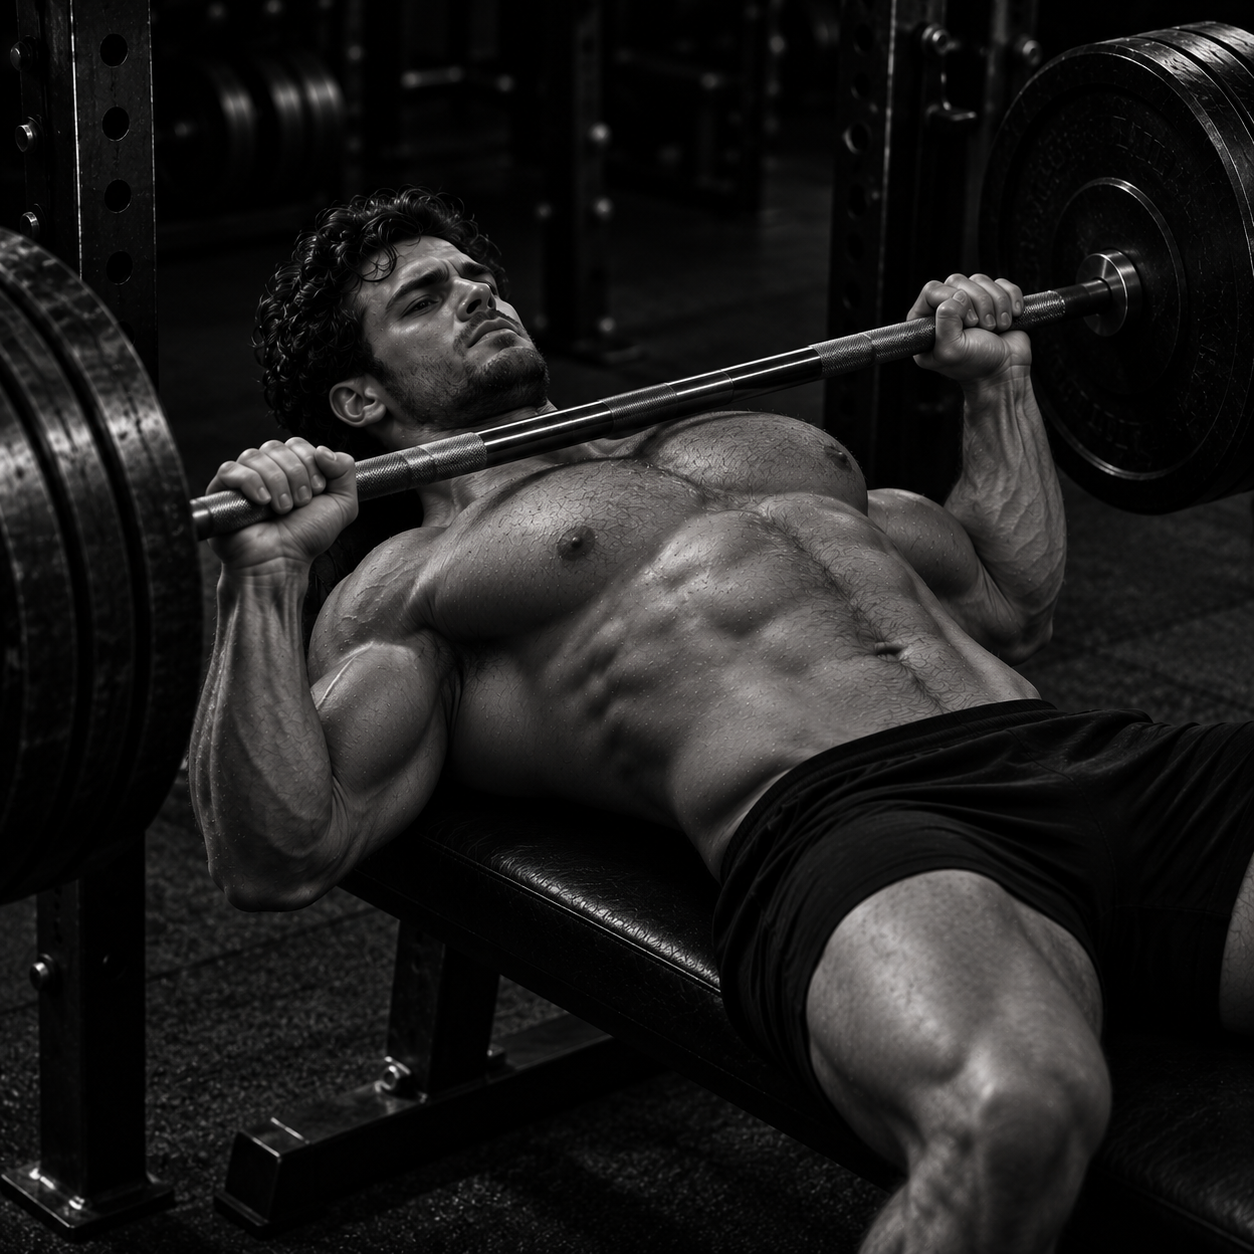
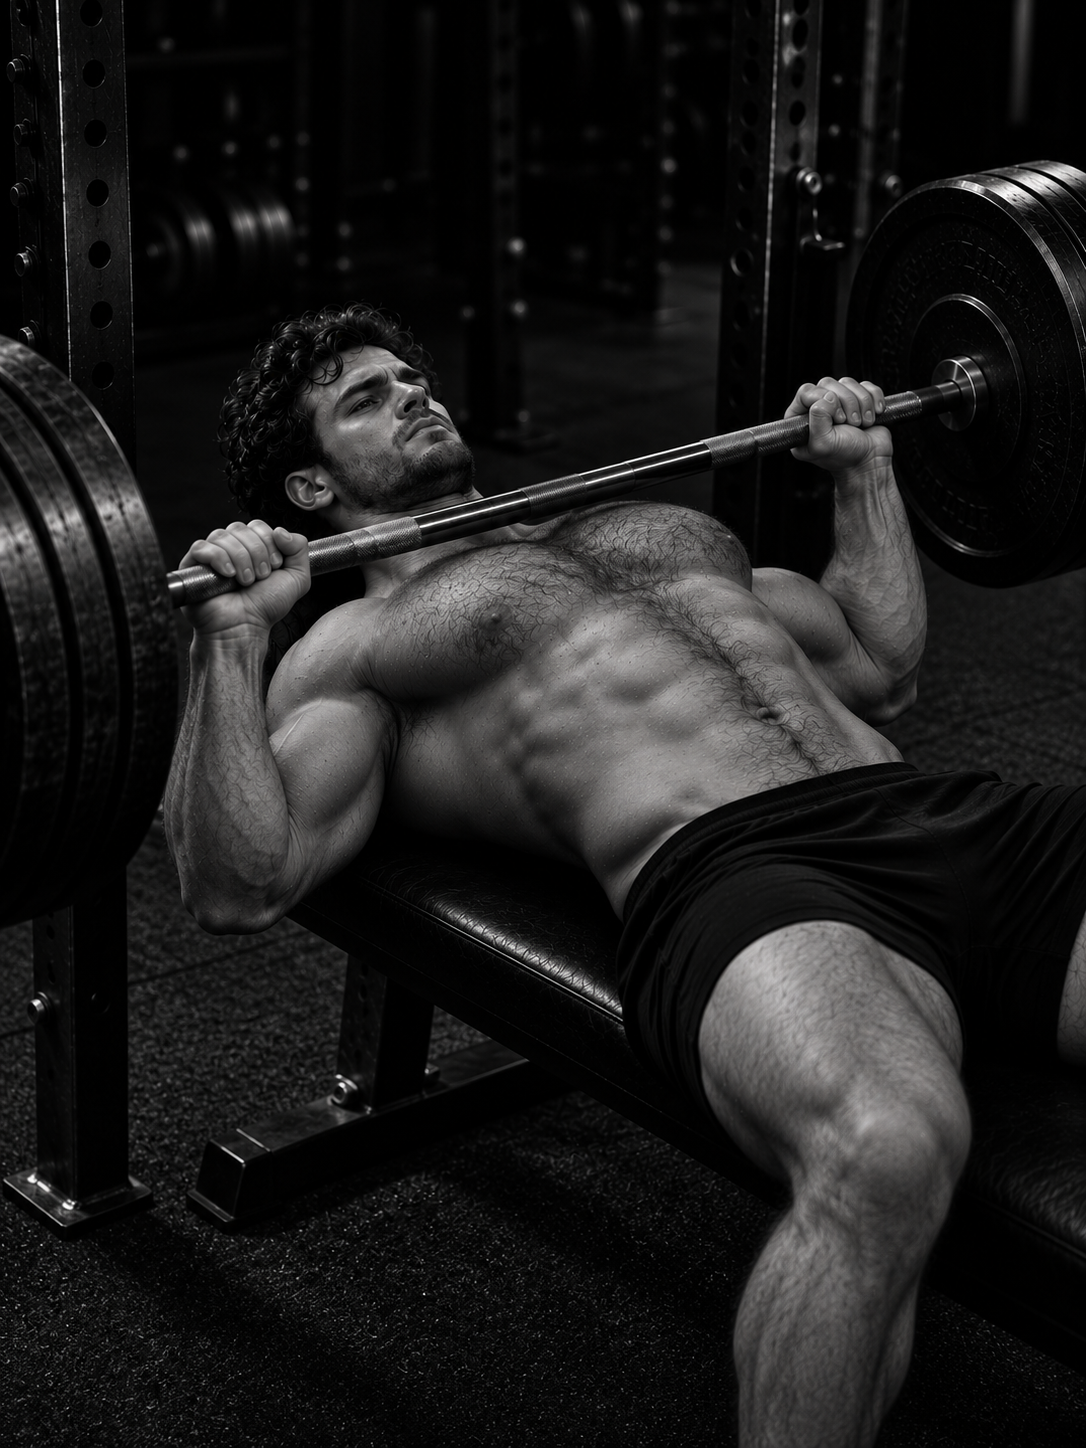
Added focal points for portrait and lanscape orientations for the steel and together themes.

diff --git a/Gayffirmations/App/ThemeImage.swift b/Gayffirmations/App/ThemeImage.swift
@@ -16,23 +16,23 @@ extension AppTheme {
         case .together:
             // Follow the series from first love in the 1970s to companionship around sixty.
             return [
-                ThemeImage(id: "together-pickup-romance", name: "Pickup Romance", focalPoint: .center,
+                ThemeImage(id: "together-pickup-romance", name: "Pickup Romance", focalPoint: UnitPoint(x: 0.48, y: 0.19),
                            overlayOpacity: 0.48, accessibilityDescription: "An AI-generated image of two young men sharing an affectionate moment on a pickup truck in the 1970s", textColor: .white),
-                ThemeImage(id: "together-beach-camping", name: "Beach Camping", focalPoint: .center,
+                ThemeImage(id: "together-beach-camping", name: "Beach Camping", focalPoint: UnitPoint(x: 0.51, y: 0.31),
                            overlayOpacity: 0.48, accessibilityDescription: "An AI-generated image of two young men preparing food together at a beach campsite", textColor: .white),
-                ThemeImage(id: "together-sunny-shore", name: "Sunny Shore", focalPoint: .center,
+                ThemeImage(id: "together-sunny-shore", name: "Sunny Shore", focalPoint: UnitPoint(x: 0.50, y: 0.14),
                            overlayOpacity: 0.48, accessibilityDescription: "An AI-generated image of two men walking arm in arm through shallow water at a sunny beach", textColor: .white),
-                ThemeImage(id: "together-couch-reading", name: "Couch Reading", focalPoint: .center,
+                ThemeImage(id: "together-couch-reading", name: "Couch Reading", focalPoint: UnitPoint(x: 0.57, y: 0.28),
                            overlayOpacity: 0.48, accessibilityDescription: "An AI-generated image of two men cuddling while reading together on a couch in the early 1980s", textColor: .white),
-                ThemeImage(id: "together-kitchen", name: "Kitchen", focalPoint: .center,
+                ThemeImage(id: "together-kitchen", name: "Kitchen", focalPoint: UnitPoint(x: 0.45, y: 0.20),
                            overlayOpacity: 0.48, accessibilityDescription: "An AI-generated image of two men embracing while preparing a meal in their 1980s kitchen", textColor: .white),
-                ThemeImage(id: "together-cycling", name: "Cycling", focalPoint: .center,
+                ThemeImage(id: "together-cycling", name: "Cycling", focalPoint: UnitPoint(x: 0.55, y: 0.25),
                            overlayOpacity: 0.48, accessibilityDescription: "An AI-generated image of two men consulting a map during a countryside cycling trip", textColor: .white),
-                ThemeImage(id: "together-mountain-break", name: "Mountain Break", focalPoint: .center,
+                ThemeImage(id: "together-mountain-break", name: "Mountain Break", focalPoint: UnitPoint(x: 0.45, y: 0.18),
                            overlayOpacity: 0.48, accessibilityDescription: "An AI-generated image of two men resting together beside a mountain lake", textColor: .white),
-                ThemeImage(id: "together-coffee", name: "Coffee", focalPoint: .center,
+                ThemeImage(id: "together-coffee", name: "Coffee", focalPoint: UnitPoint(x: 0.46, y: 0.30),
                            overlayOpacity: 0.48, accessibilityDescription: "An AI-generated image of two mature men sharing conversation over coffee at an outdoor café", textColor: .white),
-                ThemeImage(id: "together-coastal-companionship", name: "Coastal Companionship", focalPoint: .center,
+                ThemeImage(id: "together-coastal-companionship", name: "Coastal Companionship", focalPoint: UnitPoint(x: 0.37, y: 0.17),
                            overlayOpacity: 0.48, accessibilityDescription: "An AI-generated image of two older men sitting affectionately together by the coast at sunset", textColor: .white)
             ]
         case .ages:
@@ -58,23 +58,23 @@ extension AppTheme {
             ]
         case .steel:
             return [
-                ThemeImage(id: "steel-strength", name: "Strength", focalPoint: UnitPoint(x: 0.85, y: 0.5),
+                ThemeImage(id: "steel-strength", name: "Strength", focalPoint: UnitPoint(x: 0.78, y: 0.41),
                            overlayOpacity: 0.38, accessibilityDescription: "An AI-generated monochrome portrait of a standing man curling a barbell", textColor: .white),
-                ThemeImage(id: "steel-squat", name: "Squat", focalPoint: UnitPoint(x: 0.55, y: 0.5),
+                ThemeImage(id: "steel-squat", name: "Squat", focalPoint: UnitPoint(x: 0.44, y: 0.29),
                            overlayOpacity: 0.38, accessibilityDescription: "An AI-generated monochrome portrait of a man squatting with a barbell", textColor: .white),
-                ThemeImage(id: "steel-lunge", name: "Lunge", focalPoint: .center,
+                ThemeImage(id: "steel-lunge", name: "Lunge", focalPoint: UnitPoint(x: 0.35, y: 0.63),
                            overlayOpacity: 0.38, accessibilityDescription: "An AI-generated monochrome portrait of a man lunging with dumbbells", textColor: .white),
-                ThemeImage(id: "steel-deadlift", name: "Deadlift", focalPoint: UnitPoint(x: 0.52, y: 0.5),
+                ThemeImage(id: "steel-deadlift", name: "Deadlift", focalPoint: UnitPoint(x: 0.80, y: 0.26),
                            overlayOpacity: 0.38, accessibilityDescription: "A monochrome portrait of a man preparing to deadlift a barbell", textColor: .white),
-                ThemeImage(id: "steel-bench-press", name: "Bench Press", focalPoint: UnitPoint(x: 0.45, y: 0.5),
+                ThemeImage(id: "steel-bench-press", name: "Bench Press", focalPoint: UnitPoint(x: 0.55, y: 0.31),
                            overlayOpacity: 0.38, accessibilityDescription: "An AI-generated monochrome portrait of a man bench pressing a barbell", textColor: .white),
-                ThemeImage(id: "steel-pull-up", name: "Pull-up", focalPoint: .center,
+                ThemeImage(id: "steel-pull-up", name: "Pull-up", focalPoint: UnitPoint(x: 0.48, y: 0.31),
                            overlayOpacity: 0.38, accessibilityDescription: "An AI-generated monochrome portrait of a man doing a pull-up, viewed from behind", textColor: .white),
-                ThemeImage(id: "steel-lateral-raise", name: "Lateral Raise", focalPoint: UnitPoint(x: 0.55, y: 0.5),
+                ThemeImage(id: "steel-lateral-raise", name: "Lateral Raise", focalPoint: UnitPoint(x: 0.51, y: 0.23),
                            overlayOpacity: 0.38, accessibilityDescription: "An AI-generated monochrome portrait of a man raising dumbbells out to his sides", textColor: .white),
-                ThemeImage(id: "steel-curl", name: "Curl", focalPoint: UnitPoint(x: 0.70, y: 0.5),
+                ThemeImage(id: "steel-curl", name: "Curl", focalPoint: UnitPoint(x: 0.25, y: 0.38),
                            overlayOpacity: 0.38, accessibilityDescription: "A monochrome portrait of a seated man curling a dumbbell", textColor: .white),
-                ThemeImage(id: "steel-release", name: "Release", focalPoint: .center,
+                ThemeImage(id: "steel-release", name: "Release", focalPoint: UnitPoint(x: 0.39, y: 0.17),
                            overlayOpacity: 0.48, accessibilityDescription: "An AI-generated monochrome portrait of a man lifting a kettlebell with his head tilted back", textColor: .white)
             ]
         case .gayWonderland:
@@ -101,23 +101,23 @@ extension AppTheme {
             ]
         case .shitHappens:
             return [
-                ThemeImage(id: "shit-happens-mirror-check", name: "Mirror Check", focalPoint: .center,
+                ThemeImage(id: "shit-happens-mirror-check", name: "Mirror Check", focalPoint: UnitPoint(x: 0.50, y: 0.25),
                            overlayOpacity: 0.48, accessibilityDescription: "A man in an untied bow tie examines his nose in a bathroom mirror", textColor: .white),
-                ThemeImage(id: "shit-happens-burnt-toast", name: "Burnt Toast", focalPoint: .center,
+                ThemeImage(id: "shit-happens-burnt-toast", name: "Burnt Toast", focalPoint: UnitPoint(x: 0.73, y: 0.51),
                            overlayOpacity: 0.48, accessibilityDescription: "A man holds up two charred slices of toast beside a smoking toaster", textColor: .white),
-                ThemeImage(id: "shit-happens-cafe-laughter", name: "Café Laughter", focalPoint: .center,
+                ThemeImage(id: "shit-happens-cafe-laughter", name: "Café Laughter", focalPoint: UnitPoint(x: 0.15, y: 0.36),
                            overlayOpacity: 0.48, accessibilityDescription: "A man looks up from his outdoor café table while his companion laughs", textColor: .white),
-                ThemeImage(id: "shit-happens-laundromat", name: "Laundromat", focalPoint: .center,
+                ThemeImage(id: "shit-happens-laundromat", name: "Laundromat", focalPoint: UnitPoint(x: 0.50, y: 0.30),
                            overlayOpacity: 0.48, accessibilityDescription: "A man holds up a shrunken rainbow tank top at a laundromat", textColor: .white),
-                ThemeImage(id: "shit-happens-matching-shirts", name: "Matching Shirts", focalPoint: .center,
+                ThemeImage(id: "shit-happens-matching-shirts", name: "Matching Shirts", focalPoint: UnitPoint(x: 0.53, y: 0.15),
                            overlayOpacity: 0.48, accessibilityDescription: "Two men react to wearing matching hibiscus shirts at a garden party", textColor: .white),
-                ThemeImage(id: "shit-happens-coffee-spill", name: "Coffee Spill", focalPoint: .center,
+                ThemeImage(id: "shit-happens-coffee-spill", name: "Coffee Spill", focalPoint: UnitPoint(x: 0.55, y: 0.58),
                            overlayOpacity: 0.48, accessibilityDescription: "A man looks down at coffee spilled across his shirt while his companion laughs", textColor: .white),
-                ThemeImage(id: "shit-happens-muddy-trail", name: "Muddy Trail", focalPoint: .center,
+                ThemeImage(id: "shit-happens-muddy-trail", name: "Muddy Trail", focalPoint: UnitPoint(x: 0.10, y: 0.42),
                            overlayOpacity: 0.48, accessibilityDescription: "A man sits in the mud while his companion leans over to help and a dog stands nearby", textColor: .white),
-                ThemeImage(id: "shit-happens-poolside-chair", name: "Poolside Chair", focalPoint: .center,
+                ThemeImage(id: "shit-happens-poolside-chair", name: "Poolside Chair", focalPoint: UnitPoint(x: 0.50, y: 0.78),
                            overlayOpacity: 0.48, accessibilityDescription: "A man sits in a collapsed poolside chair while his friends laugh", textColor: .white),
-                ThemeImage(id: "shit-happens-park-yoga", name: "Park Yoga", focalPoint: .center,
+                ThemeImage(id: "shit-happens-park-yoga", name: "Park Yoga", focalPoint: UnitPoint(x: 0.75, y: 0.13),
                            overlayOpacity: 0.48, accessibilityDescription: "A man gives a sheepish smile while holding a downward dog pose in the park", textColor: .white)
             ]
         case .outAndAbout:

diff --git a/SOURCES.md b/SOURCES.md
@@ -9,15 +9,15 @@ Steel uses nine user-supplied AI-generated images. Bundled JPEGs and PNGs preser
 
 | Image | Bundled asset identifier |
 | --- | --- |
-| Strength | `steel-strength` |
+| Dramatic Monochrome Barbell Curl Portrait | `steel-strength` |
 | Release | `steel-release` |
-| Curl | `steel-curl` |
-| Deadlift | `steel-deadlift` |
-| Squat | `steel-squat` |
-| Pull-up | `steel-pull-up` |
-| Bench Press | `steel-bench-press` |
-| Lateral Raise | `steel-lateral-raise` |
-| Lunge | `steel-lunge` |
+| Monochrome Gym Curl Portrait | `steel-curl` |
+| High-Contrast Deadlift in the Gym | `steel-deadlift` |
+| Dramatic Barbell Squat in Monochrome | `steel-squat` |
+| Monochrome Pull-Up Muscle Definition | `steel-pull-up` |
+| Monochrome Bench Press Strength | `steel-bench-press` |
+| Monochrome Dumbbell Lateral Raise | `steel-lateral-raise` |
+| Monochrome Dumbbell Lunge in the Gym | `steel-lunge` |
 
 The three additional images were supplied from Desktop and copied into Assets and the app asset catalogue without resizing.
 
@@ -96,15 +96,15 @@ The ordered rotation follows the accompanying life-stage brief, from first love 
 
 | Order | Original image | Bundled asset identifier |
 | --- | --- | --- |
-| 1 | Golden 70s Pickup Romance | `together-pickup-romance` |
-| 2 | Retro Beach Camping Getaway | `together-beach-camping` |
-| 3 | Faded Retro Beach Portrait | `together-sunny-shore` |
-| 4 | Cosy 1980s Couch Reading | `together-couch-reading` |
-| 5 | 1980s Kitchen Cooking Together | `together-kitchen` |
-| 6 | Cycling Adventure on Rural Roads | `together-cycling` |
-| 7 | Mountain Break by the Water | `together-mountain-break` |
-| 8 | Warm Conversation Over Coffee | `together-coffee` |
-| 9 | Golden Companionship by the Coast | `together-coastal-companionship` |
+| 1 | Vintage Pickup by the Lake | `together-pickup-romance` |
+| 2 | Vintage Beachside Camping Companions | `together-beach-camping` |
+| 3 | Retro Shoreline Companions | `together-sunny-shore` |
+| 4 | Cosy Vintage Living Room Reading | `together-couch-reading` |
+| 5 | Loving Retro Kitchen Tomato Prep | `together-kitchen` |
+| 6 | Cyclists Consulting a Roadside Map | `together-cycling` |
+| 7 | Hikers Overlooking a Mountain Lake | `together-mountain-break` |
+| 8 | Warm Park Café Conversation | `together-coffee` |
+| 9 | Sunset Shoreline Portrait of Two Friends | `together-coastal-companionship` |
 
 ## Ages
 
